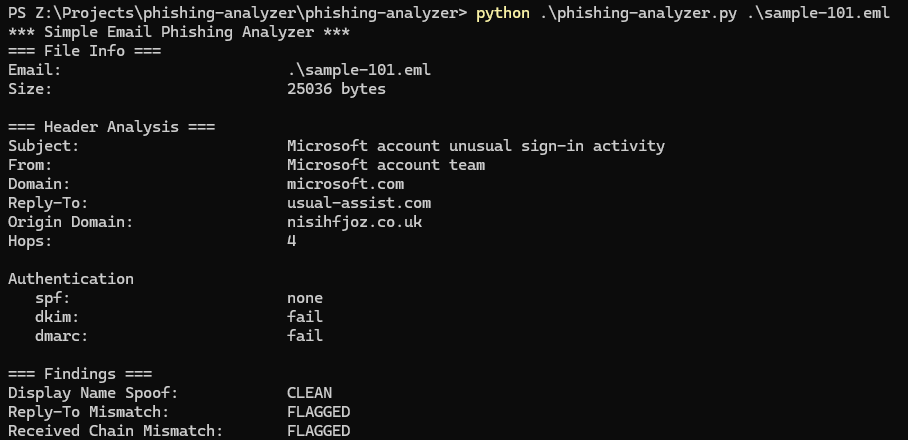
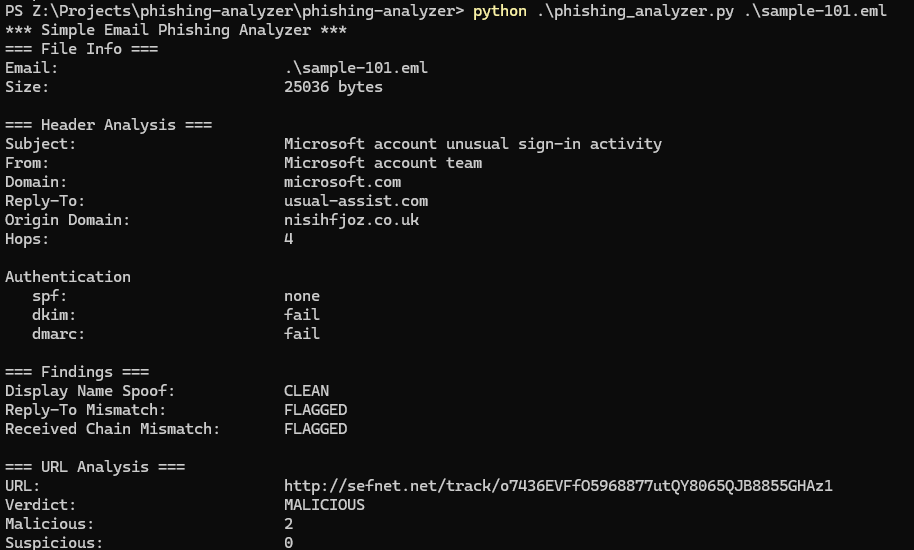
Fix extracted_urls bug
fix: extract_urls now uses BeautifulSoup get_text() to prevent raw HTML regex matches, add img src extraction, new screenshot

diff --git a/body.py b/body.py
@@ -33,22 +33,28 @@ def parse_body(msg: Message) -> dict:
 
 def extract_urls(body: dict) -> list:
     url_strip = []
+    soup_body = BeautifulSoup(body["html"], 'html.parser')
 
-    # extract urls from the plain text and html text
+    # extract urls from the plain text and cleaned html text
     # strip extra punctuation from the end of a url
-    for text in [body["plain"], body["html"]]:
+    for text in [body["plain"], soup_body.get_text()]:
         for u in re.findall(r'https?://\S+', text):
             url_strip.append(u.rstrip('.,;:)"'))
 
-    # extract urls from the html text
+    # extract urls from <a> tags
     # the regex might miss a URL, so we use BeautifulSoup to
     # find the rest
     # strip extra punctuation from the end of a url
-    soup_body = BeautifulSoup(body["html"], 'html.parser')
     for link in soup_body.find_all('a'):
         href = link.get('href')
         if href and href.startswith('http'):
             url_strip.append(href.rstrip('.,;:)"'))
+
+    # extract urls from <img> tags
+    for img in soup_body.find_all('img'):
+        src = img.get('src')
+        if src and src.startswith('http'):
+            url_strip.append(src.rstrip('.,;:)"'))
 
     # converting to a set removes duplicates, then return back to a list
     return list(set(url_strip))

diff --git a/vt.py b/vt.py
@@ -40,5 +40,6 @@ def check_urls_vt(urls: list) -> list:
                     "url": url,
                     "error": str(e)
                 })
-        time.sleep(15)    
+        time.sleep(15) 
+
     return vt_results
